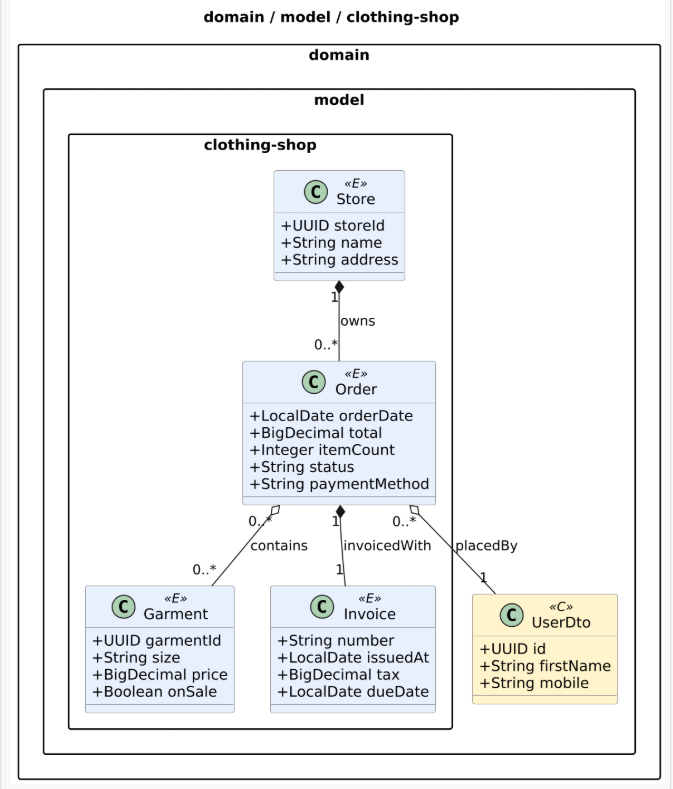
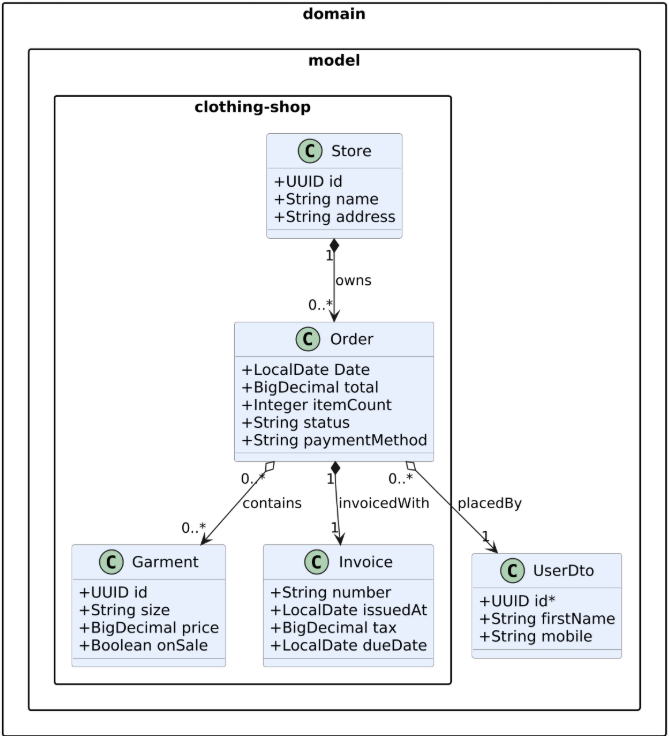
fixed clothingstore class and image version3 #1161

Changed region(s): [[0.0, 0.0, 1.0, 1.0]]

diff --git a/src/main/java/es/upm/miw/apaw/domain/models/clothingstore/Order.java b/src/main/java/es/upm/miw/apaw/domain/models/clothingstore/Order.java
@@ -18,7 +18,7 @@ import java.util.List;
 public class Order {
 
     @NotNull
-    private LocalDate orderDate;
+    private LocalDate Date;
 
     @NotNull
     private BigDecimal total;

diff --git a/src/main/java/es/upm/miw/apaw/domain/models/clothingstore/Garment.java b/src/main/java/es/upm/miw/apaw/domain/models/clothingstore/Garment.java
@@ -17,7 +17,7 @@ import java.util.UUID;
 public class Garment {
 
     @NotNull
-    private UUID garmentId;
+    private UUID id;
 
     @NotBlank
     private String size;

diff --git a/src/main/java/es/upm/miw/apaw/domain/models/clothingstore/Store.java b/src/main/java/es/upm/miw/apaw/domain/models/clothingstore/Store.java
@@ -17,7 +17,7 @@ import java.util.UUID;
 public class Store {
 
     @NotNull
-    private UUID storeId;
+    private UUID id;
 
     @NotBlank
     private String name;
